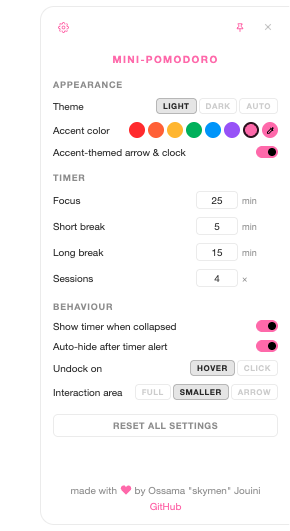
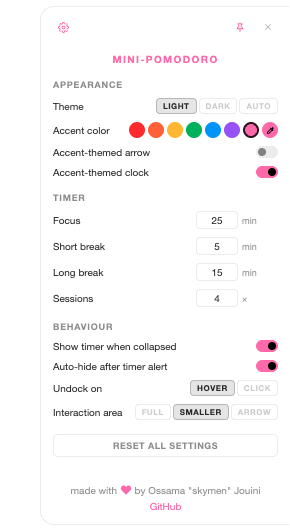
updated assets

diff --git a/README.md b/README.md
@@ -47,8 +47,10 @@ Mini Pomodoro is a translucent desktop widget that docks to the edge of your scr
 
 - **Always on top** — visible on every workspace and virtual desktop
 - **Docks & auto-tucks** — slides into the screen edge after a short delay, peeking out with a small arrow or mini timer
+- **Pin to stay** — pin the window so it stays expanded and never tucks away
 - **Pomodoro timer** — configurable focus/break durations with session tracking
 - **Inline task list** — add, reorder (drag-and-drop), edit, and check off tasks
+- **Satisfying feedback** — subtle sounds and smooth animations for every interaction
 - **Translucent glass UI** — backdrop-blurred panel that blends with your desktop
 - **Dark & light themes** — follows your system preference, or pick manually
 
@@ -98,7 +100,8 @@ When the app is tucked away, the arrow and mini timer take on your accent color 
 | ------------------------------- | ------------------------------------------------------------------------------------------------------------ |
 | **Theme**                       | Switch between **Light**, **Dark**, or **Auto** (follows your OS).                                           |
 | **Accent color**                | Choose from 7 presets (red, orange, amber, green, blue, purple, pink) or pick any custom color.              |
-| **Accent-themed arrow & clock** | When enabled, the tucked-state arrow and mini timer ring use your accent color instead of the default white. |
+| **Accent-themed arrow** | Colors the tucked-state arrow with your accent color instead of the default white. |
+| **Accent-themed clock** | Colors the mini timer ring with your accent color instead of the default white. |
 
 ### Timer
 
@@ -123,14 +126,16 @@ When the app is tucked away, the arrow and mini timer take on your accent color 
 The app docks to whichever screen edge you drag it to and tucks itself away automatically:
 
 <p align="center">
-  <video src="assets/show docking.mp4" width="260" autoplay loop muted playsinline></video>
+  <img src="assets/show docking.gif" width="260" alt="Docking demo"/>
 </p>
 
 #### Interaction area
 
 The interaction area setting lets you control exactly how much of the collapsed strip reacts to your cursor:
 
-[video]("assets/show interaction.mp4")
+<p align="center">
+  <img src="assets/show interaction.gif" width="280" alt="Interaction area demo"/>
+</p>
 
 ---
 
